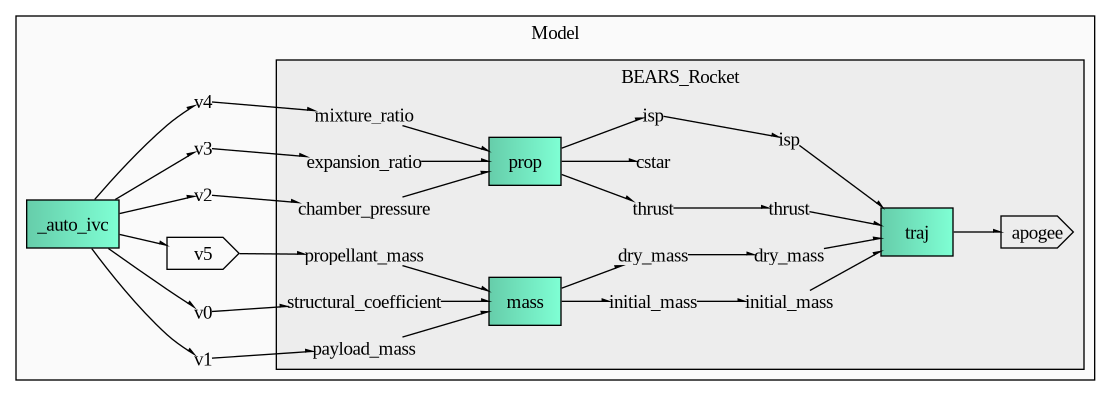
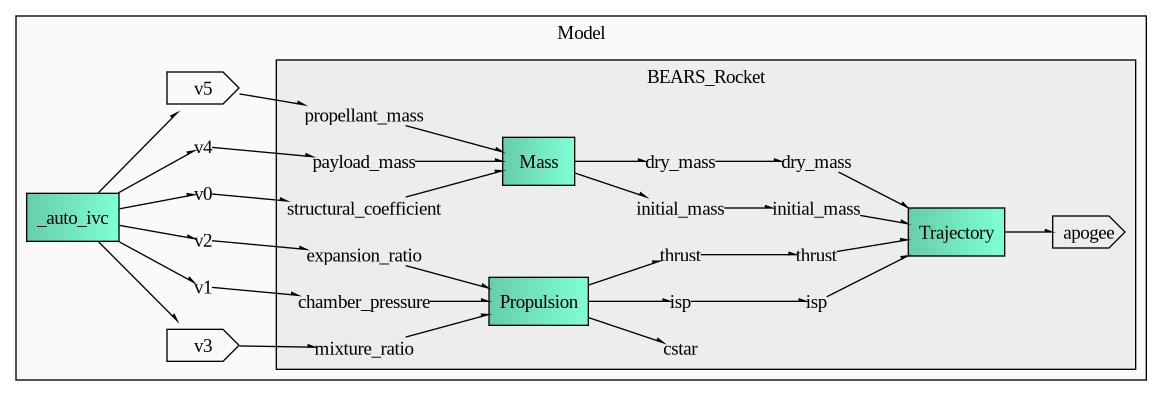
Switching back to GFM docs

diff --git a/rocket-solver/solver.py b/rocket-solver/solver.py
@@ -1,7 +1,9 @@
 #!/usr/bin/env python
 """
-@author: Andrii
-@date: 28.07.2026
+The rocket optimization script using OpenMDAO for the superstructure
+
+@author:  Andrii
+@license: GPL-3.0-or-later
 """
 
 #region Imports
@@ -21,6 +23,9 @@ from packages.BEARS_Rocket import RocketGroup
 
 #region Main
 def main():
+
+	opt_mr = True
+
 	#region Inputs
 	with open('inputs/reactants.json', 'r') as retrieved:
 		data = json.load(retrieved)
@@ -38,34 +43,38 @@ def main():
 	prob.driver.options['optimizer'] = 'SLSQP'
 
 	# Design variables
-	#prob.model.add_design_var('mixture_ratio',   lower=1.0, upper=10.0)
+	if opt_mr: prob.model.add_design_var('mixture_ratio', lower=1.0, upper=10.0, ref=2.0)
 	prob.model.add_design_var('propellant_mass', lower=1.0, upper=100.0, ref=10.0)
 
 	# Constraints
-	prob.model.add_constraint('apogee', equals=3000.0, ref=3000.0)
+	prob.model.add_constraint('apogee', equals=3100.0, ref=3100.0)
 
 	# Objectives
-	#prob.model.add_objective('prop.cstar', scaler=-1.0)
 	prob.model.add_objective('propellant_mass')
 
 	prob.setup()
 
 	# Dynamic variables
-	prob.set_val('mass.structural_coefficient', val=0.35)
+	prob.set_val('payload_mass', 1.0)
 
-	prob.set_val('prop.chamber_pressure', 35.0)
-	prob.set_val('prop.mixture_ratio',     6.0)
-	prob.set_val('prop.expansion_ratio',  40.0)
-	prob.set_val('prop.thrust',           20.0)
+	prob.set_val('Mass.structural_coefficient', val=(0.01 * 30)) # percentages
+
+	prob.set_val('Propulsion.chamber_pressure', 35.0)
+	prob.set_val('Propulsion.expansion_ratio',  20.0)
+	prob.set_val('Propulsion.thrust',           20.0)
 
 	# Optimization initial values
+	prob.set_val('mixture_ratio',   6.0)
 	prob.set_val('propellant_mass', 1.0)
-	prob.set_val('payload_mass',    1.0)
 
 	prob.run_driver()
 
-	print(f"Req propellant: {prob.get_val('propellant_mass')[0]} kg")
-	print(f"Final apogee:   {prob.get_val('apogee')[0]} m")
+	#region Output
+	print(f"m_prop:\t{prob.get_val('propellant_mass')[0]} kg")
+
+	if opt_mr: print(f"MR:\t{prob.get_val('mixture_ratio')[0]}")
+
+	print(f"h_max:\t{prob.get_val('apogee')[0]} m")
 
 	viewer = GraphViewer(prob.model)
 	for graph_type in ['dataflow', 'tree', 'cycle']:
@@ -75,6 +84,7 @@ def main():
 			show_vars=True,
 			outfile=f'figures/{graph_type}.png'
 		)
+	#endregion
 #endregion
 
 if __name__=="__main__": main()

diff --git a/rocket-solver/packages/BEARS_Rocket/group_rocket.py b/rocket-solver/packages/BEARS_Rocket/group_rocket.py
@@ -1,8 +1,3 @@
-"""
-@author: Andrii
-@date:   03.08.2026
-"""
-
 #region Imports
 from openmdao.api import Group
 from rocketcea.cea_obj import CEA_Obj
@@ -20,25 +15,29 @@ class RocketGroup(Group):
 	def setup(self):
 		cea = self.options['cea']
 
+		#region Subsystems
 		self.add_subsystem(
-			'prop',
-			ChemComponent(cea=cea)
-			#promotes_inputs=['mixture_ratio']
+			'Propulsion',
+			ChemComponent(cea=cea),
+			promotes_inputs=['mixture_ratio']
 		)
 
 		self.add_subsystem(
-			'mass',
+			'Mass',
 			MassComponent(),
 			promotes_inputs=['propellant_mass', 'payload_mass']
 		)
 
 		self.add_subsystem(
-			'traj',
+			'Trajectory',
 			TrajectoryComponent(),
 			promotes_outputs=['apogee']
 		)
+		#endregion
 
-		self.connect('prop.isp', 'traj.isp')
-		self.connect('prop.thrust', 'traj.thrust')
-		self.connect('mass.initial_mass', 'traj.initial_mass')
-		self.connect('mass.dry_mass', 'traj.dry_mass')
+		#region Connections
+		self.connect('Propulsion.isp', 'Trajectory.isp')
+		self.connect('Propulsion.thrust', 'Trajectory.thrust')
+		self.connect('Mass.initial_mass', 'Trajectory.initial_mass')
+		self.connect('Mass.dry_mass', 'Trajectory.dry_mass')
+		#endregion

diff --git a/rocket-solver/packages/BEARS_Rocket/comp_cea.py b/rocket-solver/packages/BEARS_Rocket/comp_cea.py
@@ -17,7 +17,7 @@ class ChemComponent(ExplicitComponent):
 
 		self.add_output('cstar',  val=1500.0, units='m/s') # characteristic velocity
 		self.add_output('isp',    val=120.0,  units='s')
-		self.add_output('thrust', val=120.0, units='N')
+		self.add_output('thrust', val=120.0,  units='N')
 
 	def setup_partials(self):
 		# Declare partial derivatives

diff --git a/rocket-solver/README.md b/rocket-solver/README.md
@@ -1,0 +1,70 @@
+# Code structure
+
+- `solver.py`: Main problem setup and optimization script
+
+- `inputs/`: The inputs directory
+
+- `packages/BEARS_Chem/`: The [CEA](#cea) parser module. Contains functions to
+  read the reactant data from input JSONs and parse it into a CEA object to be
+  passed to the propulsion subsystem
+
+- `packages/BEARS_Rocket/`: The [OpenMDAO](#openmdao) rocket assembly structure.
+
+# Packages
+
+## Required packages
+
+```
+openmdao
+rocketcea
+
+# For visualization
+pydot
+graphviz
+```
+
+Ininitalize a Python virtual environment:
+
+``` bash
+python -m venv env
+source env/bin/activate
+pip install openmdao rocketcea
+```
+
+Or execute the `recreate-env` Bash script
+
+## Package notes
+
+### OpenMDAO
+
+[OpenMDAO](https://openmdao.org/) (Open Muldi-Disciplinary Analysis and
+Optimization) is the multidisciplinary optimizer that will tie the whole solver
+program together. OpenMDAO works by organizing large calculations into groups
+and subsystems with corresponding Python classes
+
+| Module              | Component type    | Inputs | Outputs        |
+| ------------------- | ----------------- | ------ | -------------- |
+| RocketGroup         | Group             | -      | -              |
+| TrajectoryComponent | ExplicitComponent | `thrust`<br>`isp`<br>`initial_mass`<br>`dry_mass` | `apogee` |
+| MassComponent       | ExplicitComponent | `payload_mass`<br>`propellant_mass`<br>`structural_coefficient` | `initial_mass`<br>`dry_mass` |
+| ChemComponent       | ExplicitComponent | `chamber_pressure`<br>`mixture_ratio`<br>`expansion_ratio` | `cstar`<br>`isp`<br>`thrust` |
+
+### CEA
+
+[CEA](https://www.nasa.gov/glenn/research/chemical-equilibrium-with-applications/)
+is NASA's isentropic chemistry solver that will be used for chemical
+computations
+
+We use [RocketCEA](https://rocketcea.readthedocs.io/en/latest/index.html)
+instead of the plain
+[CEA Python interface](https://nasa.github.io/cea/interfaces/python_api.html)
+because that package is intended specifically for rocketry development
+
+CEA doesn't understand the full chemistry of polymer reactants, and polymers
+are modelled with a pseudo-species of fixed polymer chain length
+
+# Theory
+
+## Chemical data
+
+[ABS properties](https://pubchem.ncbi.nlm.nih.gov/compound/ACRYLONITRILE-BUTADIENE-STYRENE#section=Computed-Properties)
